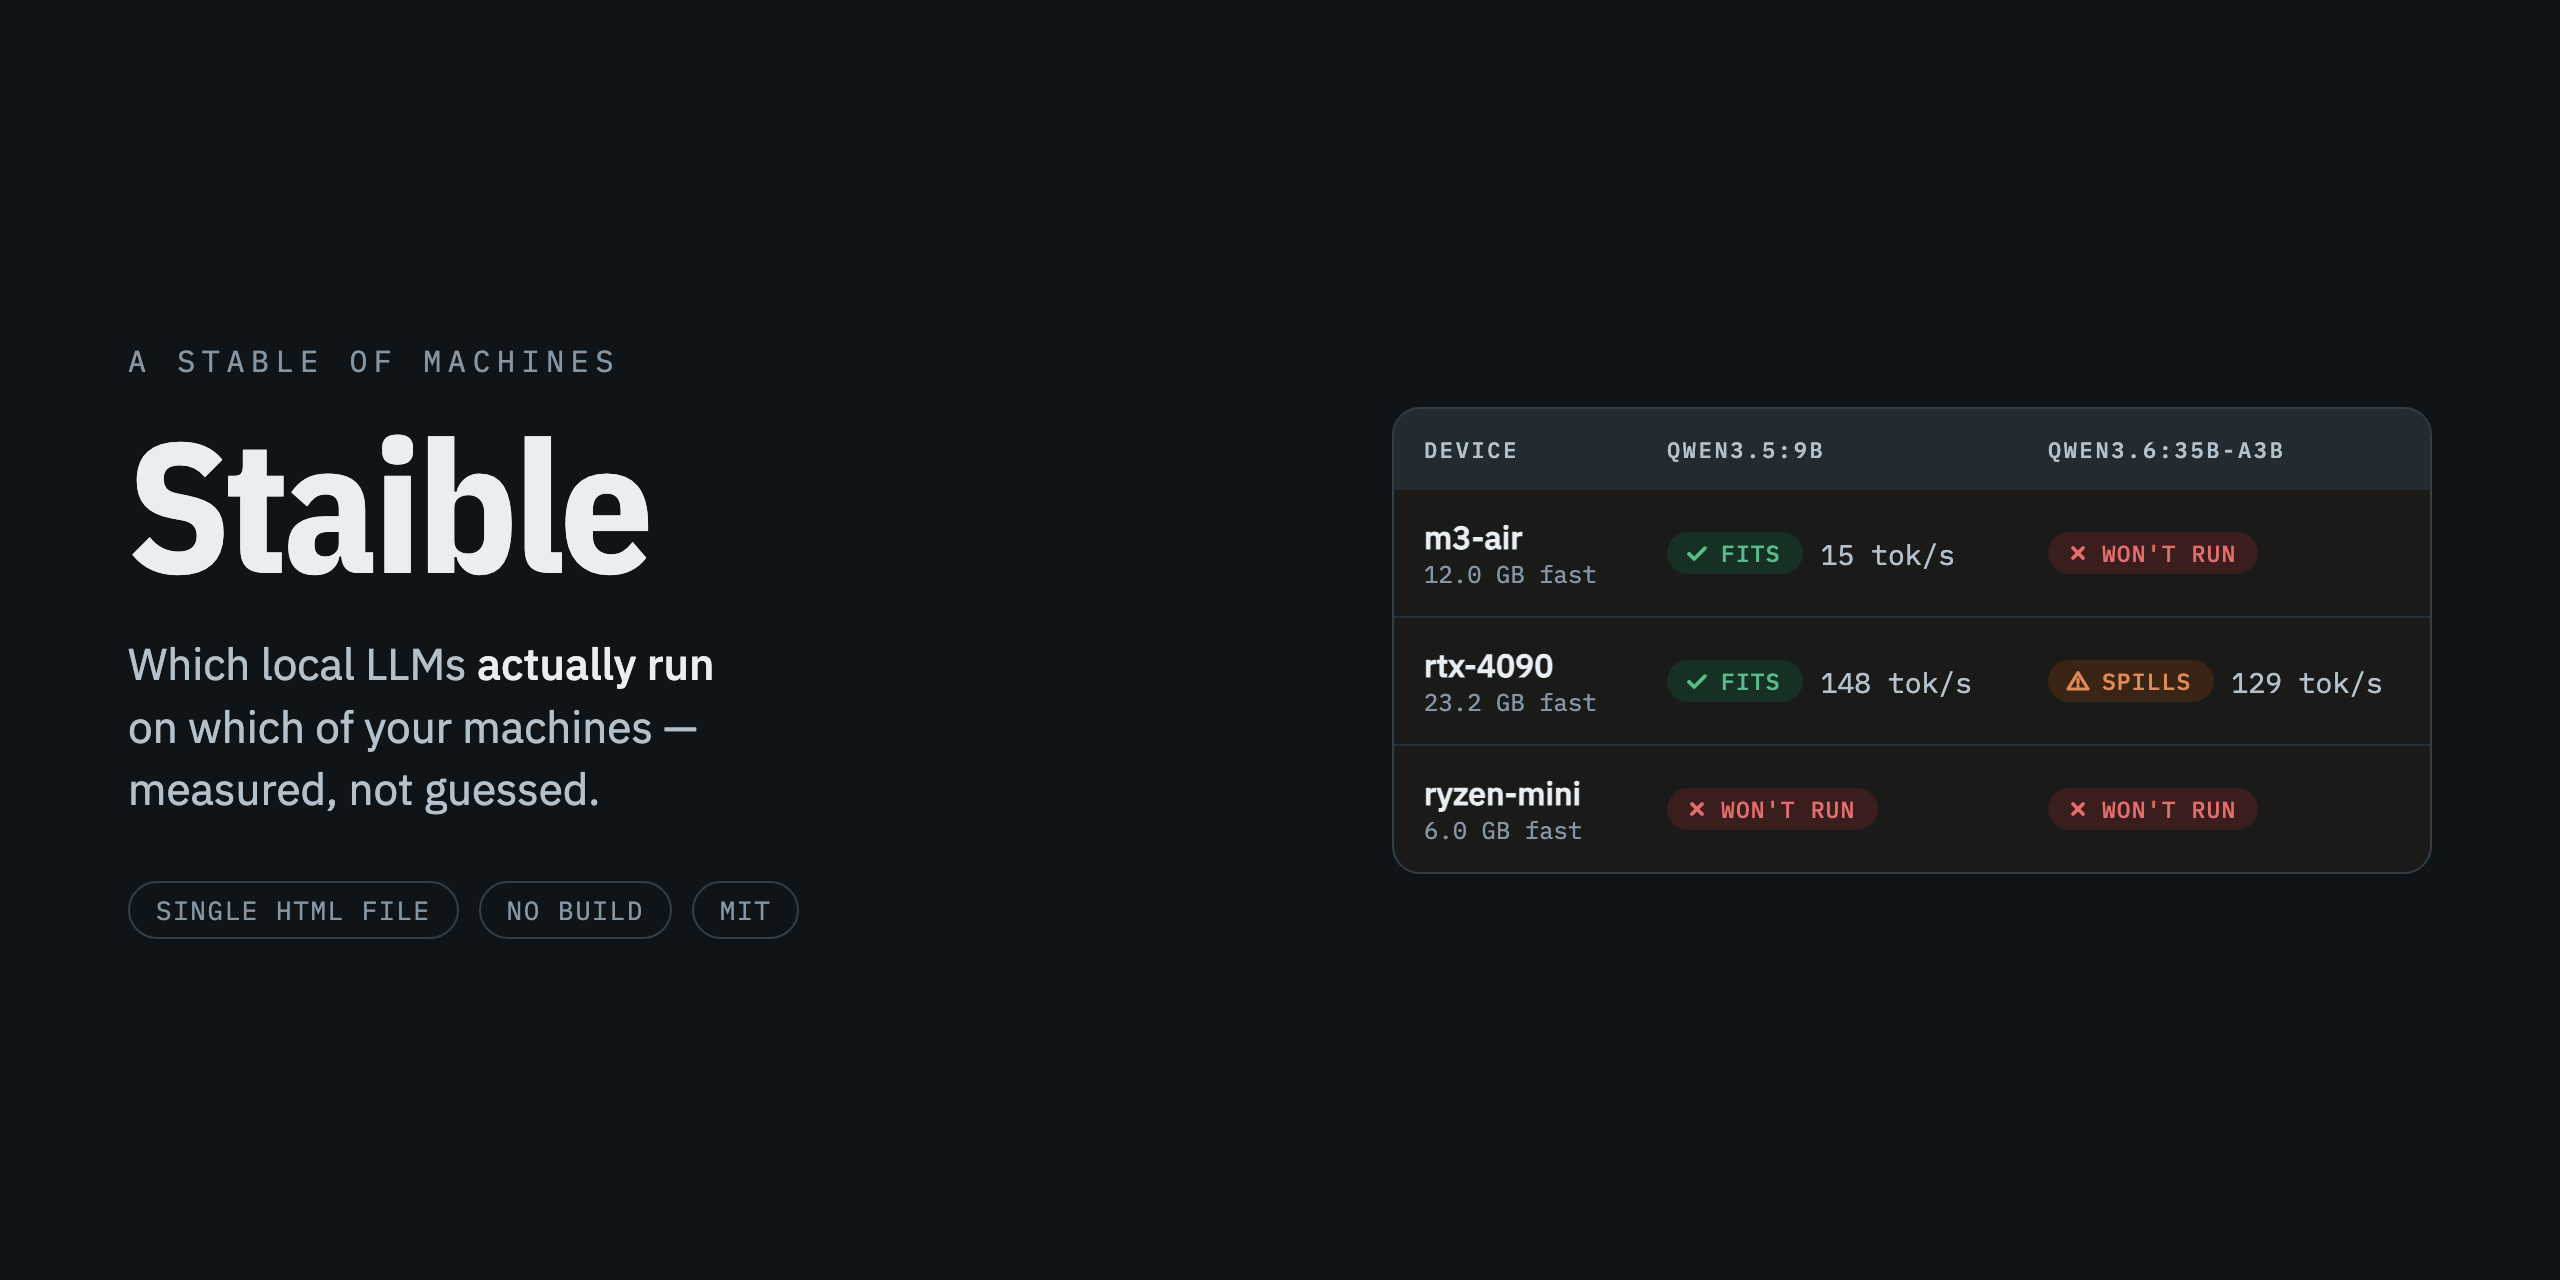
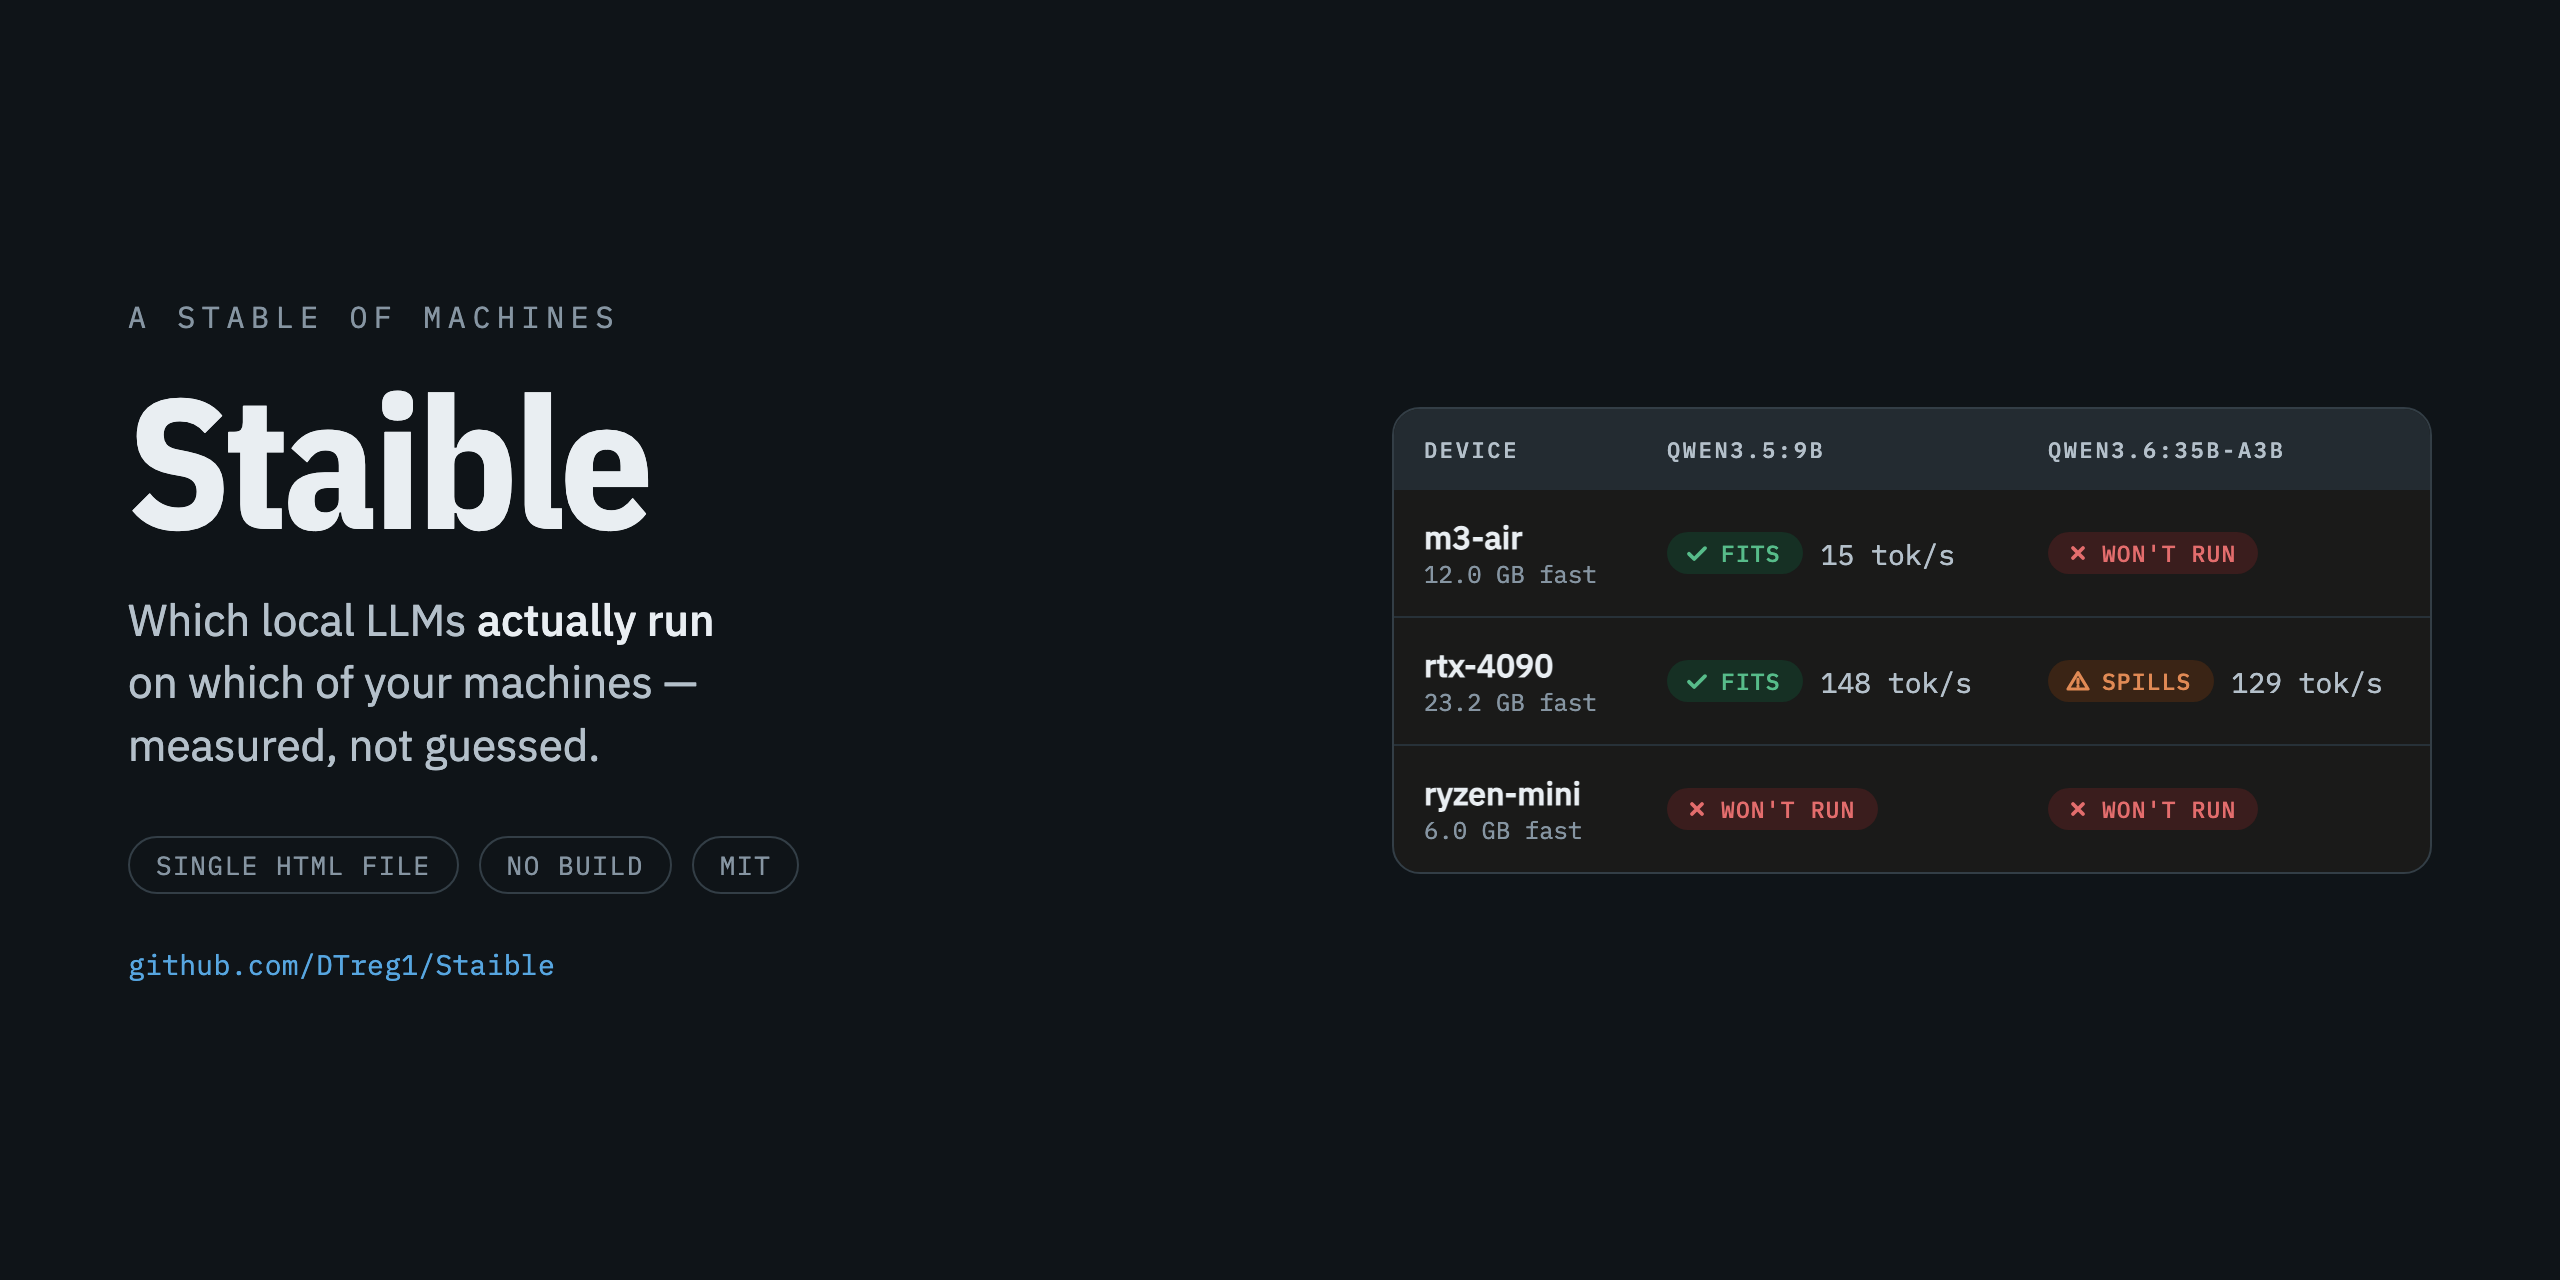
Identify the social card and describe the screenshots properly
The social preview is the one image that travels without the repo around
it -- embedded on link previews it showed hardware and model names with
nothing saying whose project it is. It now carries the repository URL,
which serves attribution and discovery at once.

Screenshot alt text was decorative ("The inspector") and told a
screen-reader user nothing about what each image shows. Each now describes
the actual content: what the matrix cells say, what the inspector's charts
plot and that the readout ends in stated assumptions, which devices the
cards cover, and what the preset picker filled in. On a repository being
offered to strangers, that is worth getting right.

No disclaimer added to the images themselves: showing product names to
identify the hardware and models the tool reasons about is nominative use,
and the README's sources section and the in-app footer already carry the
trademark and non-affiliation notice.

Claude-Session: https://claude.ai/code/session_01MBNZpqU1i4czR26qD9EjEb

Changed region(s): [[0.0312, 0.25, 0.2812, 0.7188], [0.0625, 0.75, 0.2188, 0.7812], [0.2812, 0.6562, 0.3125, 0.7188]]

diff --git a/README.md b/README.md
@@ -12,7 +12,7 @@ wrong for most of the hardware.
 The tool is a single self-contained HTML file. No build step, no dependencies, no
 server, no telemetry. Open it and it works.
 
-![The fitment matrix](docs/screenshots/matrix.png)
+![Fitment matrix: five machines as rows against eight models as columns, each cell showing Fits, Tight, Spills to CPU or Won't run together with an estimated tokens-per-second figure](docs/screenshots/matrix.png)
 
 ## Why not just use a VRAM calculator
 
@@ -36,7 +36,7 @@ overhead. A 17 GB model on a 16 GB machine was never going to run, but neither i
 
 Pick a context length and every cell recomputes. Click any cell to inspect that pair.
 
-![The inspector](docs/screenshots/inspector.png)
+![Inspector for qwen3.5:9b on an M3 Air: a stacked area chart of model weights and KV cache against context length crossing the 12 GB budget line, a generation-speed chart beside it, and a readout ending in a list of what the calculation assumes](docs/screenshots/inspector.png)
 
 The right-hand column ends with **what the calculation assumes** — which inputs were
 measured, which were extrapolated, and where the model is known to be weak. Nothing
@@ -44,14 +44,14 @@ here is presented as more certain than it is.
 
 Devices and models are editable, and the dashed tiles add new ones.
 
-![Devices](docs/screenshots/devices.png)
+![Device cards for an M3 Air, M4 Air, RTX 4090 desktop, Ryzen mini PC and Jetson Nano, each showing memory, fast budget and bandwidth, tagged measured or est, followed by a dashed Add a device tile](docs/screenshots/devices.png)
 
 ### Adding hardware
 
 You should not have to know your machine's memory bandwidth in GB/s. Pick the chip or
 GPU and Staible fills in the architecture, VRAM and bandwidth from the published spec.
 
-![Adding a device from a preset](docs/screenshots/add-device.png)
+![The Add device dialog with RTX 4090 chosen from the hardware preset list, which has filled in discrete GPU architecture, 24 GB VRAM, 827 GB/s effective bandwidth and a prompt-processing rate, above a note reading 1008 GB/s published, derated to 827 GB/s effective](docs/screenshots/add-device.png)
 
 Presets cover Apple Silicon M1–M4 (base through Ultra — the tier matters enormously,
 spanning roughly 68 to 800 GB/s), GeForce RTX 30/40/50, NVIDIA datacentre parts,
